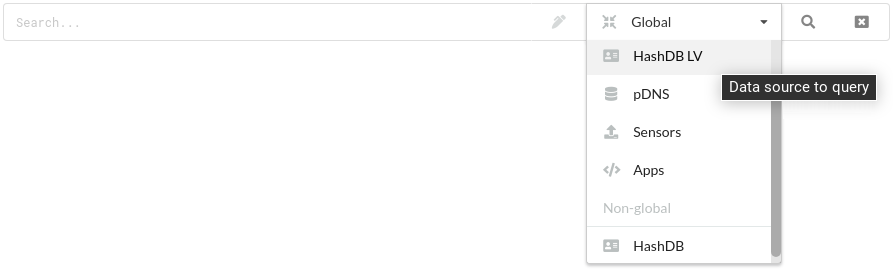
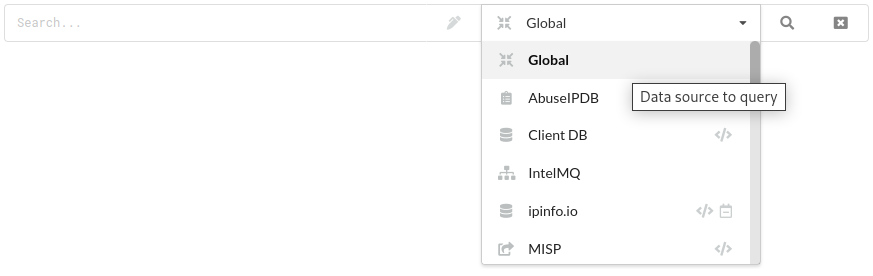
Docs updated

diff --git a/docs/ui.md b/docs/ui.md
@@ -40,6 +40,10 @@ More info in the `Search` documentation section.
 
 `global` is a special keyword to request all allowed data sources. In the `Administration` documentation section it will be explained, that some sources can be extremely slow, so to prevent every single request being slow - some data sources are excluded from the `global` space.
 
+Two informative icons on the right side:
+- `SQL not supported` - means this data source accepts basic query only, most likely `field=value`,
+- `Datetime range is ignored` - means selected date range does not affect search results.
+
 `5` contains some additional actions:
 
 - The search button

diff --git a/plugins/src/taxonomy/README.md b/plugins/src/taxonomy/README.md
@@ -16,7 +16,7 @@ YAML definition's `data` fields:
 - **taxonomy**: mapping to use. If node/edge's **field** is equal to the "key" - insert a new relation with "value" as a new node
 
 Mapping example:
-```
+```yaml
 taxonomy:
     field_value_1: taxonomy_group
     field_value_2: taxonomy_group

diff --git a/plugins/src/mongodb/README.md b/plugins/src/mongodb/README.md
@@ -32,8 +32,3 @@ The **mongo-go-driver** contains four object types:
 - **bson.M**: An unordered map. It is the same as D, except it does not preserve order
 - **bson.A**: A BSON array
 - **bson.E**: A single element inside a D
-
-
-## TODO
-
-- [ ] Implement 'NOT BETWEEN' in SQL

diff --git a/plugins/src/modify/README.md b/plugins/src/modify/README.md
@@ -20,7 +20,7 @@ where:
     - `ReplaceAllString` receives graph field value and replacement
 
 List of replacements example:
-```
+```yaml
 modify:
     - field: field_name
       regex: a(x*)b
